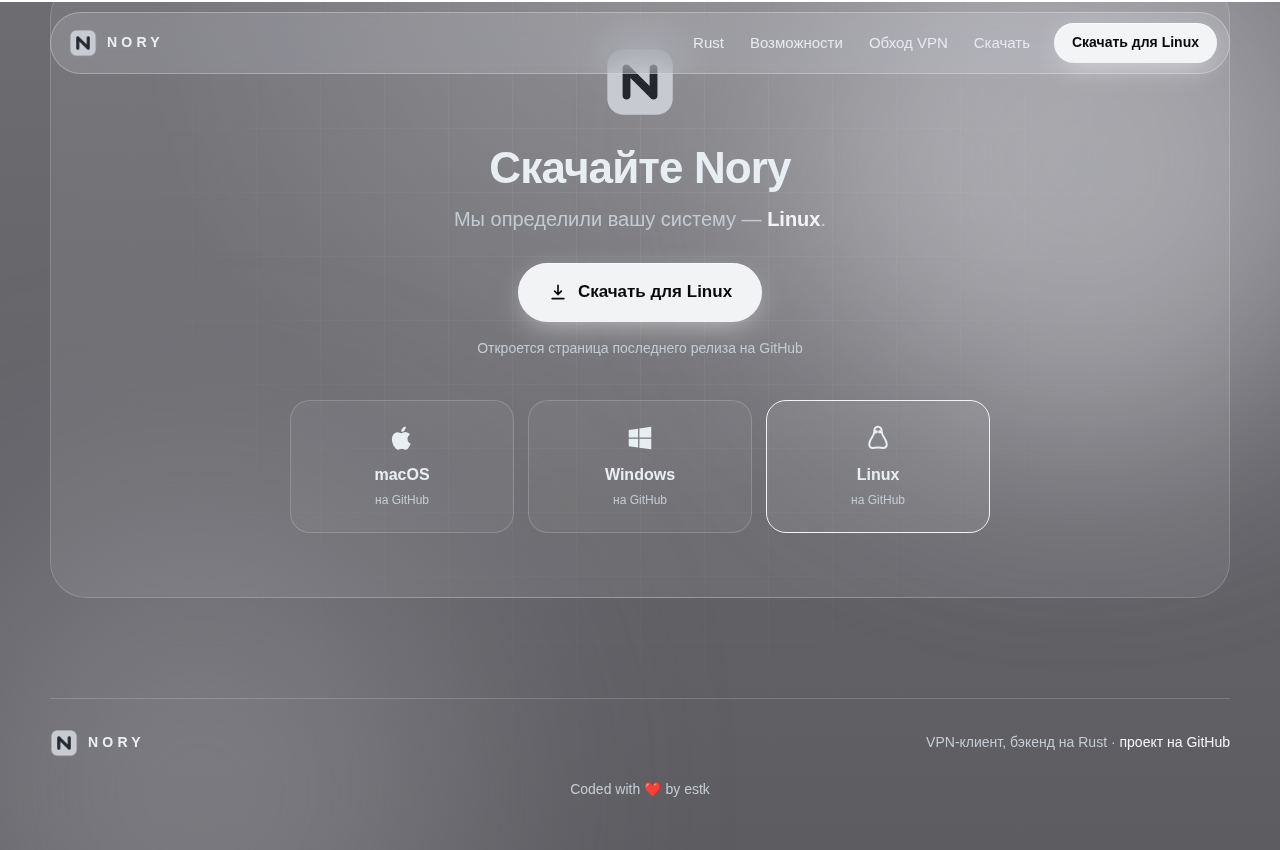
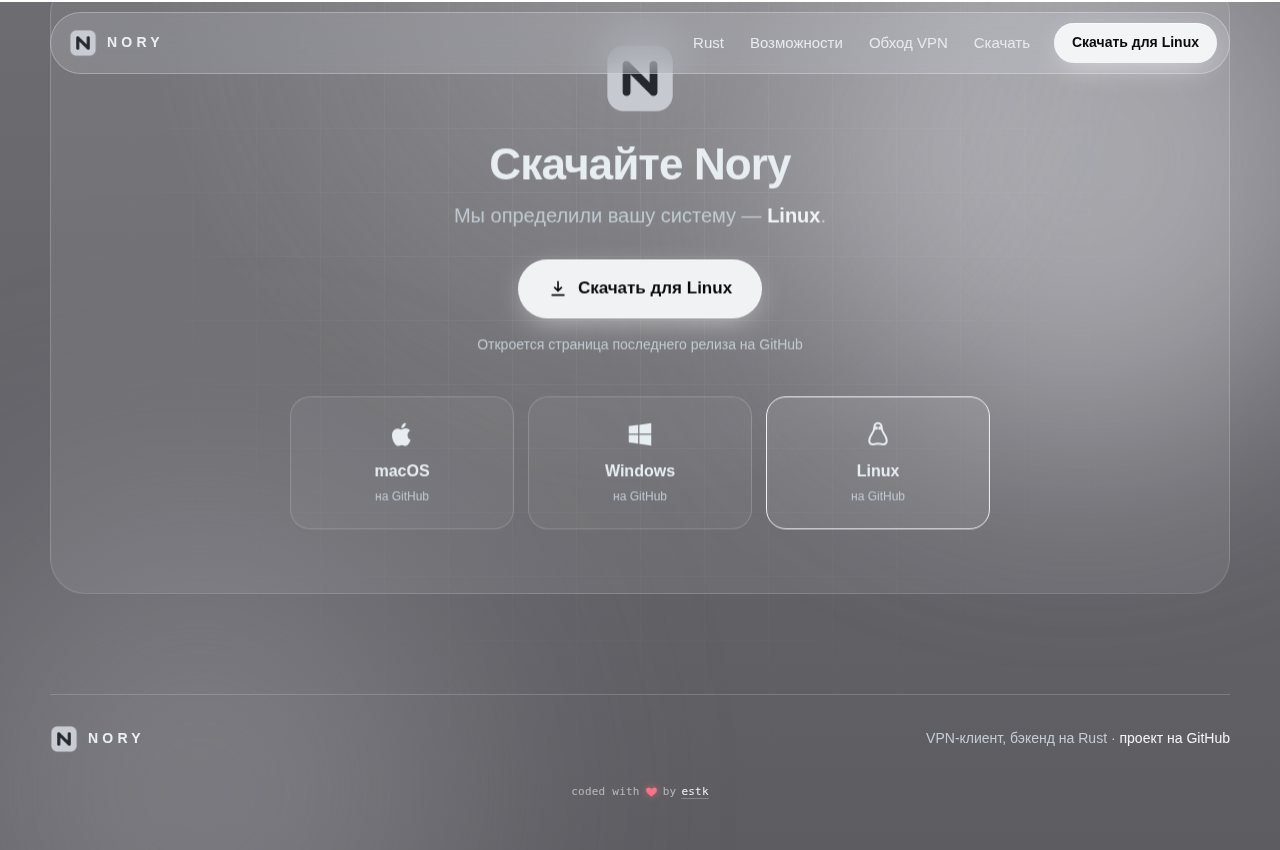
Nory landing: footer credit styled like pryanik landing
Claude-Session: https://claude.ai/code/session_01U9z51qNmc1ZQZn17ozDYa4

diff --git a/nory/style.css b/nory/style.css
@@ -225,4 +225,11 @@ h2{font-size:clamp(28px,4vw,44px);font-weight:700}
 .btn-ghost{background:rgba(255,255,255,.16)}
 .links{color:#e6eaee}.links a:hover{color:#fff}
 .tl i:nth-child(1){background:#ff5f57}.tl i:nth-child(2){background:#febc2e}.tl i:nth-child(3){background:#28c840}
-.foot .credit{flex-basis:100%;text-align:center;color:var(--mut);font-size:14px;margin-top:6px}
+
+
+.credit{flex-basis:100%;display:flex;align-items:center;justify-content:center;gap:5px;margin-top:14px;font-family:"JetBrains Mono","Fira Code",ui-monospace,monospace;font-size:11px;letter-spacing:.02em;color:rgba(255,255,255,.55)}
+.credit a{color:rgba(255,255,255,.8);text-decoration:underline;text-decoration-color:rgba(255,255,255,.25);text-underline-offset:3px;transition:color .2s,text-decoration-color .2s}
+.credit a:hover{color:#fb7185;text-decoration-color:#fb7185}
+.heart{width:13px;height:13px;fill:#fb7185;filter:drop-shadow(0 0 4px rgba(251,113,133,.6));transform-origin:center;animation:beat 1.6s ease-in-out infinite}
+@keyframes beat{0%,100%{transform:scale(1)}14%{transform:scale(1.28)}28%{transform:scale(1)}42%{transform:scale(1.2)}70%{transform:scale(1)}}
+@media(prefers-reduced-motion:reduce){.heart{animation:none}}

diff --git a/nory/index.html b/nory/index.html
@@ -184,7 +184,7 @@
 <footer class="foot wrap">
   <a class="brand" href="#top"><img class="mark" src="nory.png" alt="Nory"><span>NORY</span></a>
   <span>VPN-клиент, бэкенд на Rust · <a href="https://github.com/wasteprince/nory" target="_blank" rel="noopener">проект на GitHub</a></span>
-  <span class="credit">Coded with ❤ by estk</span>
+  <p class="credit">coded with <svg class="heart" viewBox="0 0 24 24" aria-label="love" role="img"><path d="M12 21s-7.5-4.6-9.6-9.3C.9 8.4 2.6 4.5 6.4 4.5c2.2 0 3.8 1.2 5.6 3.3 1.8-2.1 3.4-3.3 5.6-3.3 3.8 0 5.5 3.9 4 7.2C19.5 16.4 12 21 12 21Z"/></svg> by <a href="https://t.me/riskybenefit" target="_blank" rel="noopener">estk</a></p>
 </footer>
 
 <!-- sprite -->
